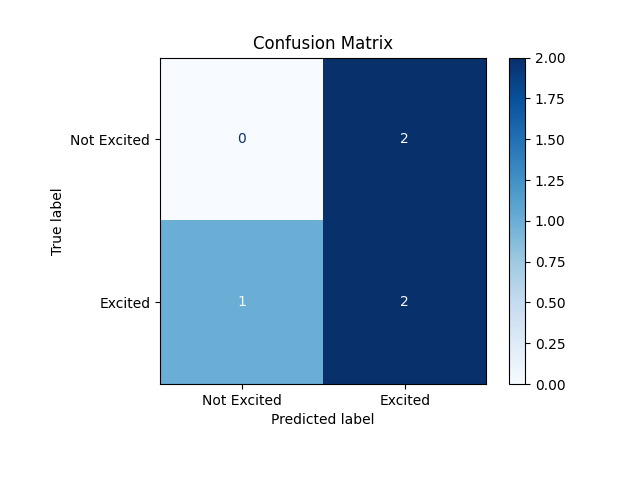
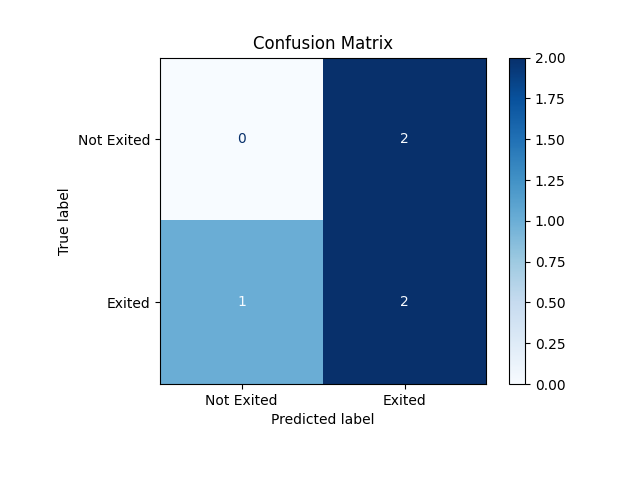
refactor: reporting refinement (task 4.1)

diff --git a/reporting.py b/reporting.py
@@ -1,76 +1,83 @@
 """
-This script is used to report the performance of the deployed LR model
-by reporting the confusion matrix.
+This script reports the performance of the deployed logistic regression model
+by calculating and plotting the confusion matrix.
 """
 
-# pylint: disable=C0103  # Reason: Allowing non-conventional variable
-# names for simplicity
 import os
 from pathlib import Path
-import json
-import logging
 
-import pandas as pd
 import matplotlib.pyplot as plt
-from sklearn.metrics import confusion_matrix, ConfusionMatrixDisplay
+import pandas as pd
+from sklearn.metrics import ConfusionMatrixDisplay, confusion_matrix
+
 from diagnostics import model_predictions
+from utils import get_logger, load_config
 
-# Configure logging to output to the terminal
-logging.basicConfig(
-    level=logging.INFO,
-    format="%(asctime)s - %(levelname)s - %(message)s",
-    handlers=[logging.StreamHandler()]
-)
+# Initialize logger
+logger = get_logger()
 
-logger = logging.getLogger(__name__)
+# Load configuration
+root_path = Path(os.getcwd())
+config = load_config(str(Path(root_path, "config.json")))
 
-# Load config.json and set VARs
-with open("config.json", "r", encoding="utf-8") as f:
-    config = json.load(f)
-
+# Set environment variables
 ENV = config["active_environment"]
-test_data_path = Path(os.getcwd(), config[ENV]["test_data_path"])
-output_model_path = Path(os.getcwd(), config[ENV]["output_model_path"])
+test_data_path = Path(root_path, config[ENV]["test_data_path"])
+output_model_path = Path(root_path, config[ENV]["output_model_path"])
 
 
-def score_model():
+def score_model() -> None:
     """
     Calculate a confusion matrix using the test data and the deployed model.
-    Plot and write this matrix to the workspace.
-    """
-    logger.info("Loading test data from %s", test_data_path)
-    test_data_df = pd.read_csv(
-        Path(
-            test_data_path,
-            "testdata.csv"),
-        low_memory=False)
+    Plot and save this matrix to the workspace.
 
+    The function performs the following steps:
+    1. Loads the test data from the configured path.
+    2. Extracts the target variable (`exited`) from the test data.
+    3. Generates predictions using the deployed model.
+    4. Calculates the confusion matrix.
+    5. Plots and saves the confusion matrix as an image.
+
+    Returns:
+        NoReturn: This function does not return any value.
+    """
+    # Load test data
+    logger.info("Loading test data from %s", test_data_path)
+    test_data_file = Path(test_data_path, "testdata.csv")
+    if not test_data_file.exists():
+        logger.error("Test data file not found at %s", test_data_file)
+        raise FileNotFoundError(f"Test data file not found at {test_data_file}")
+
+    test_data_df = pd.read_csv(test_data_file, low_memory=False)
+
+    # Extract target variable
     logger.info("Extracting target variable 'exited' from test data")
+    if "exited" not in test_data_df.columns:
+        logger.error("Target variable 'exited' not found in test data")
+        raise KeyError("Target variable 'exited' not found in test data")
+
     y_test = test_data_df.pop("exited")
+
+    # Generate predictions
+    logger.info("Generating predictions using the deployed model")
     y_pred = model_predictions(test_data_df)
 
+    # Calculate confusion matrix
     logger.info("Calculating confusion matrix")
-    confusion_matrix = confusion_matrix(y_true=y_test, y_pred=y_pred)
-    logger.info("Raw confusion matrix values:\n%s", confusion_matrix)
+    conf_matrix = confusion_matrix(y_true=y_test, y_pred=y_pred)
+    logger.info("Raw confusion matrix values:\n%s", conf_matrix)
 
+    # Generate and save confusion matrix plot
     logger.info("Generating and storing the confusion matrix plot")
-    disp = ConfusionMatrixDisplay(
-        confusion_matrix=confusion_matrix, display_labels=[
-            'Not Excited', 'Excited'])
-
-    disp.plot(cmap='Blues')
-    plt.title('Confusion Matrix')
+    disp = ConfusionMatrixDisplay(confusion_matrix=conf_matrix, display_labels=["Not Exited", "Exited"])
+    disp.plot(cmap="Blues")
+    plt.title("Confusion Matrix")
     plt.subplots_adjust(left=0.2, bottom=0.2)
-    plt.savefig(Path(output_model_path, 'confusionmatrix.png'))
 
-    logger.info(
-        "Confusion matrix plot saved to %s",
-        Path(
-            output_model_path,
-            'confusionmatrix.png'))
+    output_file = Path(output_model_path, "confusionmatrix.png")
+    plt.savefig(output_file)
+    logger.info("Confusion matrix plot saved to %s", output_file)
 
 
-# This block ensures that the reporting function is called only when this
-# script is executed directly.
-if __name__ == '__main__':
+if __name__ == "__main__":
     score_model()
